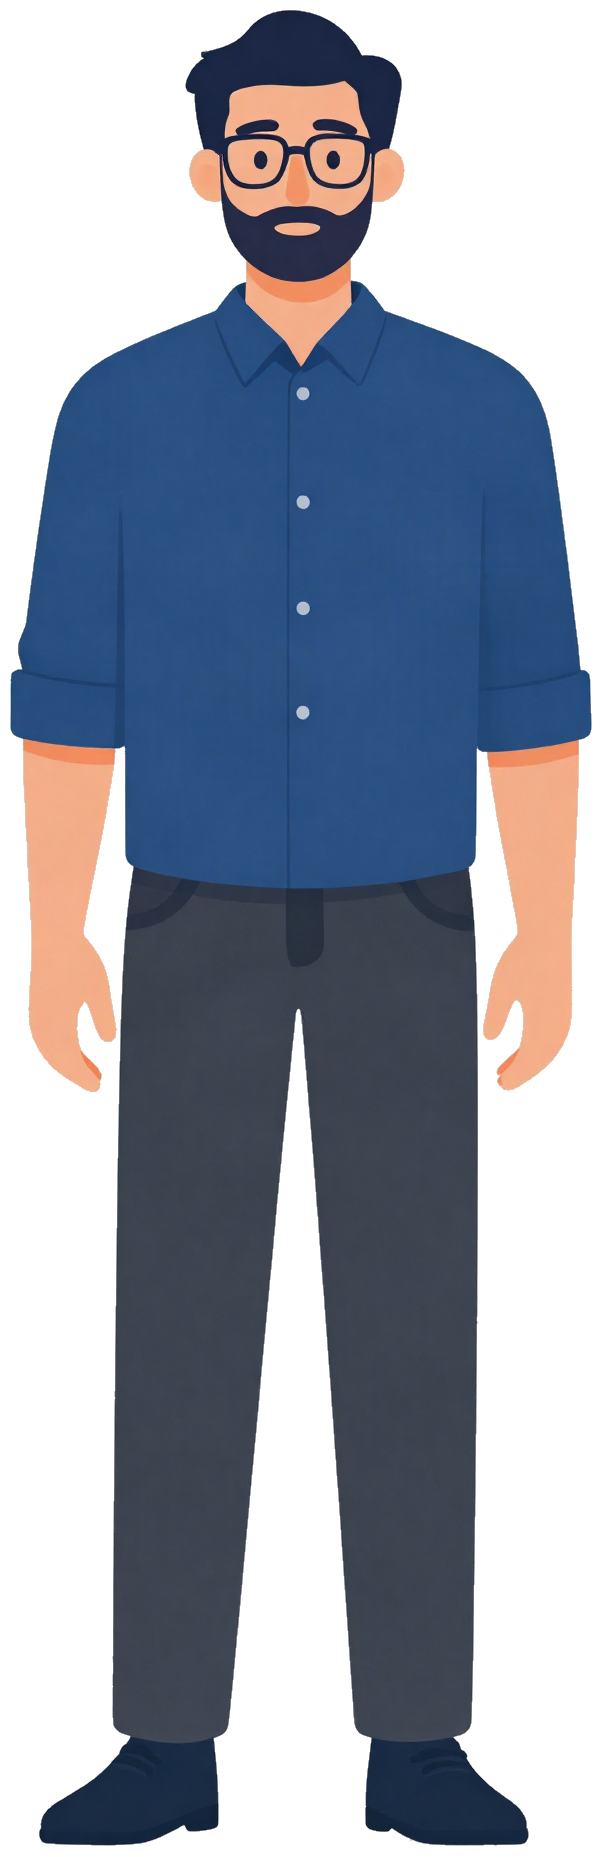
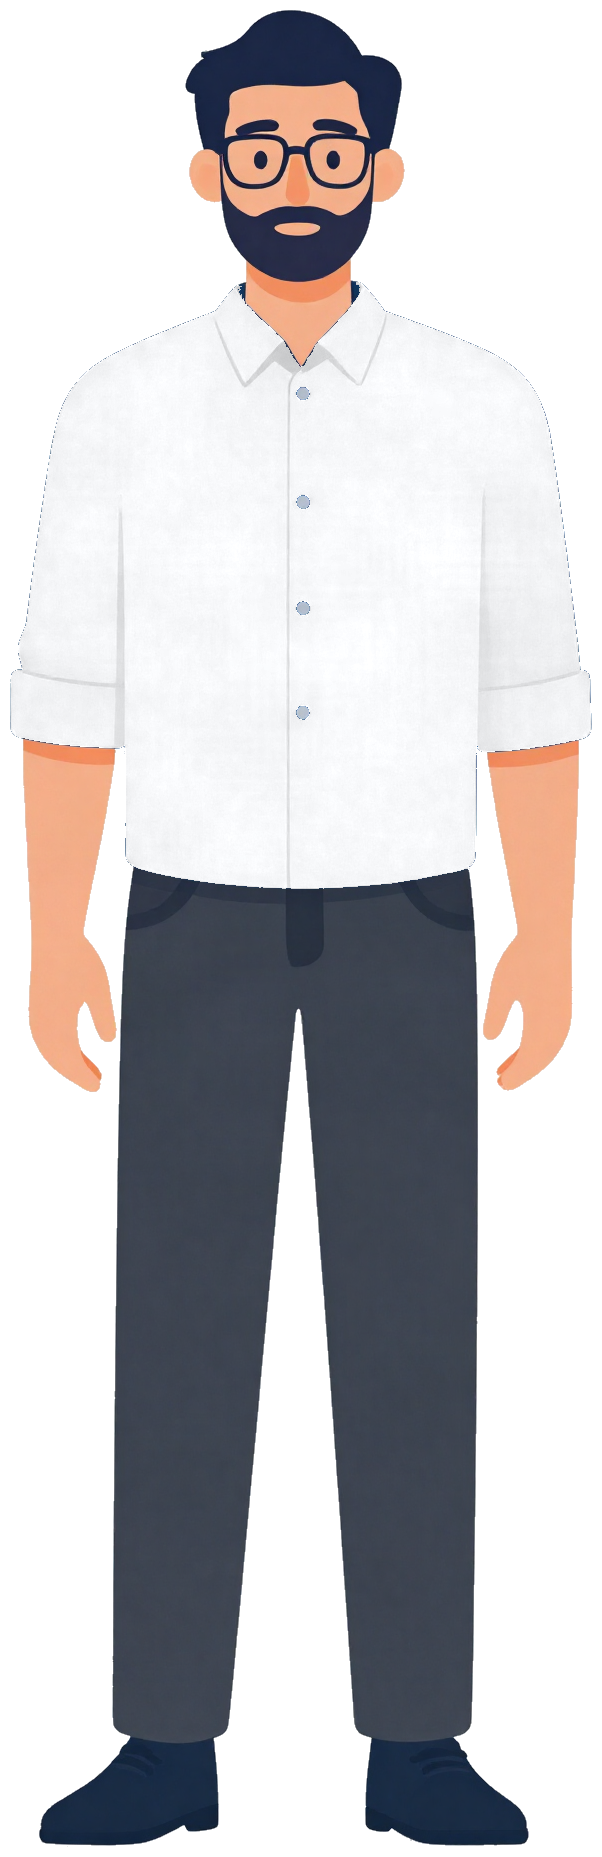
last edit

Changed region(s): [[0.0, 0.1562, 0.9867, 0.4997]]

diff --git a/scripts/recolor-shirt.js b/scripts/recolor-shirt.js
@@ -1,0 +1,56 @@
+/**
+ * Repaint the shirt white while keeping its folds.
+ *
+ * A flood fill seeded inside the torso, with a tolerance well below the
+ * distance to the trousers and shoes, so the fill cannot leak out of the
+ * garment. Each filled pixel keeps its own shading: the difference between its
+ * luminance and the garment's base luminance is re-applied, amplified, on top
+ * of the new white so the creases stay readable on a light fill.
+ *
+ * Usage: node scripts/recolor-shirt.js <in.png> <out.png>
+ */
+const sharp = require('sharp');
+const [, , SRC, OUT] = process.argv;
+
+const WHITE = [247, 248, 250];
+const TOL = 50;      // < 71, the distance from shirt blue to the trousers
+const GAIN = Number(process.argv[4] || 0.6); // low: the source carries pixel noise that a high gain turns into blotches
+
+const lum = (r, g, b) => 0.2126 * r + 0.7152 * g + 0.0722 * b;
+
+sharp(SRC).ensureAlpha().raw().toBuffer({ resolveWithObject: true }).then(async ({ data, info }) => {
+  const { width: W, height: H, channels: C } = info;
+  const at = (x, y) => (y * W + x) * C;
+
+  // Seed in the middle of the chest.
+  const sx = Math.round(W * 0.5), sy = Math.round(H * 0.26);
+  const si = at(sx, sy);
+  const base = [data[si], data[si + 1], data[si + 2]];
+  const baseLum = lum(...base);
+
+  const near = (i) => {
+    const dr = data[i] - base[0], dg = data[i + 1] - base[1], db = data[i + 2] - base[2];
+    return Math.sqrt(dr * dr + dg * dg + db * db) <= TOL;
+  };
+
+  const seen = new Uint8Array(W * H);
+  const stack = [[sx, sy]];
+  let filled = 0;
+  while (stack.length) {
+    const [x, y] = stack.pop();
+    if (x < 0 || y < 0 || x >= W || y >= H) continue;
+    const p = y * W + x;
+    if (seen[p]) continue;
+    const i = at(x, y);
+    if (data[i + 3] === 0 || !near(i)) continue;
+    seen[p] = 1;
+    filled++;
+    const scale = 1 + ((lum(data[i], data[i + 1], data[i + 2]) - baseLum) / baseLum) * GAIN;
+    for (let k = 0; k < 3; k++) data[i + k] = Math.max(0, Math.min(255, Math.round(WHITE[k] * scale)));
+    stack.push([x + 1, y], [x - 1, y], [x, y + 1], [x, y - 1]);
+  }
+
+  await sharp(Buffer.from(data), { raw: { width: W, height: H, channels: C } })
+    .png({ compressionLevel: 9 }).toFile(OUT);
+  console.log(`seed rgb(${base}) baseLum=${baseLum.toFixed(1)}  repainted ${filled} px (${(filled / (W * H) * 100).toFixed(1)}%)`);
+});

diff --git a/components/Hero.tsx b/components/Hero.tsx
@@ -101,15 +101,23 @@ export function Hero() {
               full-body crop would otherwise tower over the column.
               TODO: replace with Mohammed's photograph once supplied.
             */}
-            <Image
-              src="/images/hero-engineer.png"
-              alt={t("figureAlt")}
-              width={602}
-              height={1857}
-              priority
-              sizes="(min-width: 1024px) 220px, 180px"
-              className="h-[340px] w-auto sm:h-[420px] lg:h-[540px]"
-            />
+            <div className="relative flex flex-col items-center">
+              <Image
+                src="/images/hero-engineer.png"
+                alt={t("figureAlt")}
+                width={602}
+                height={1857}
+                priority
+                sizes="(min-width: 1024px) 220px, 180px"
+                className="h-[340px] w-auto animate-float sm:h-[420px] lg:h-[540px]"
+              />
+              {/* Contact shadow. Without it the lift reads as the whole picture
+                  sliding; with it, the figure has weight. */}
+              <span
+                aria-hidden
+                className="mt-2 block h-2 w-24 animate-float-shadow rounded-[50%] bg-ink blur-[6px] sm:w-28 lg:w-32"
+              />
+            </div>
           </div>
         </div>
       </div>

diff --git a/tailwind.config.ts b/tailwind.config.ts
@@ -65,11 +65,27 @@ const config: Config = {
           from: { transform: 'scaleX(0)' },
           to: { transform: 'scaleX(1)' },
         },
+        // Slow idle float for the hero figure. Long and shallow on purpose: at
+        // 6s and 10px it registers as presence, not as motion competing with
+        // the headline beside it.
+        float: {
+          '0%, 100%': { transform: 'translateY(0)' },
+          '50%': { transform: 'translateY(-16px)' },
+        },
+        // Ground shadow, in counterpoint: it tightens and darkens as the
+        // figure comes down, which is what sells the lift as weight rather
+        // than a sliding image.
+        'float-shadow': {
+          '0%, 100%': { transform: 'scaleX(1)', opacity: '0.16' },
+          '50%': { transform: 'scaleX(0.86)', opacity: '0.08' },
+        },
       },
       animation: {
         rise: 'rise 550ms cubic-bezier(0.16, 1, 0.3, 1) both',
         'word-up': 'word-up 550ms cubic-bezier(0.16, 1, 0.3, 1) both',
         'draw-x': 'draw-x 900ms cubic-bezier(0.16, 1, 0.3, 1) both',
+        float: 'float 5s ease-in-out infinite',
+        'float-shadow': 'float-shadow 5s ease-in-out infinite',
       },
       transitionDuration: {
         fast: '150ms',
